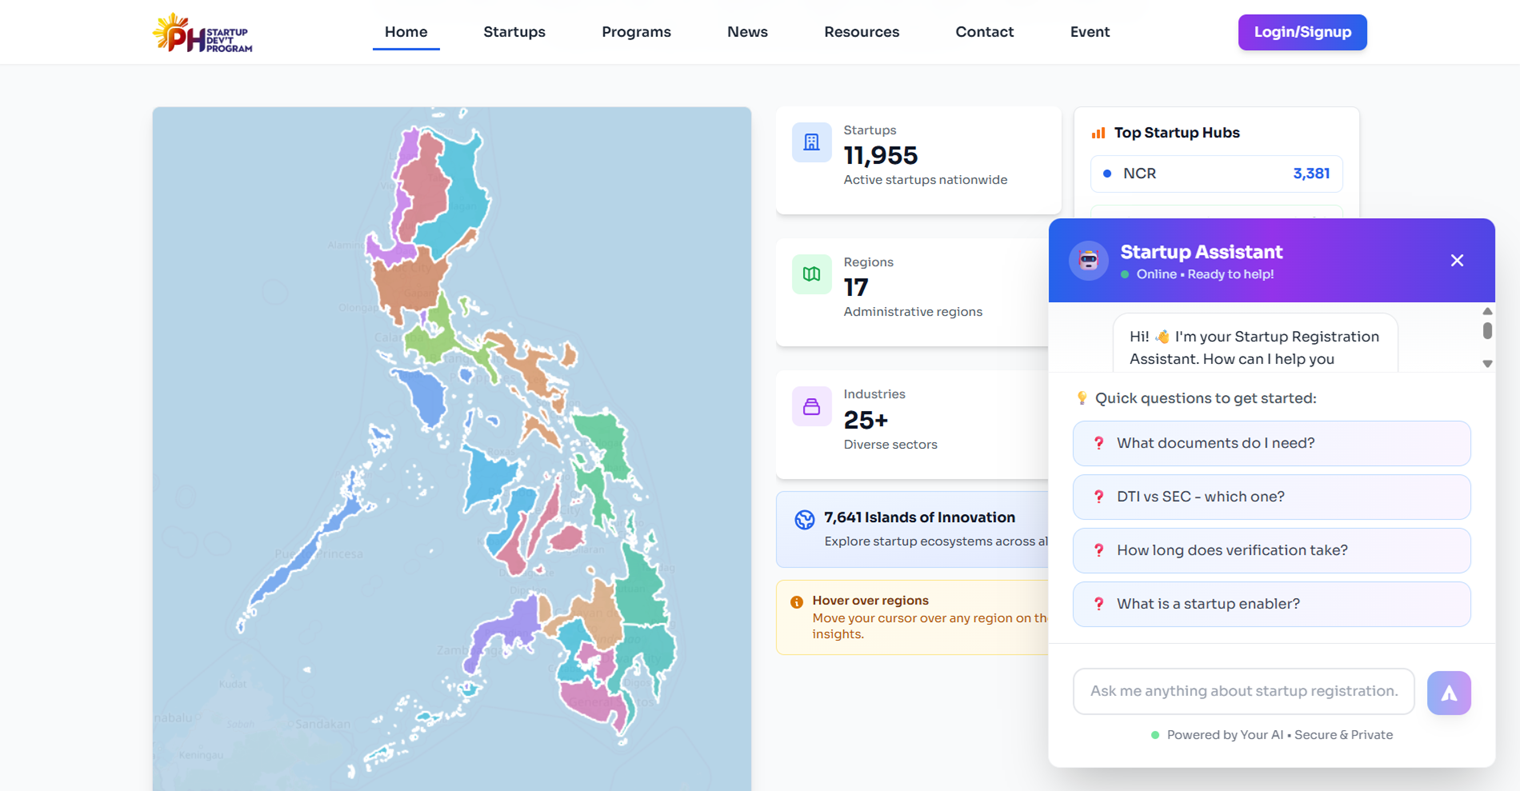
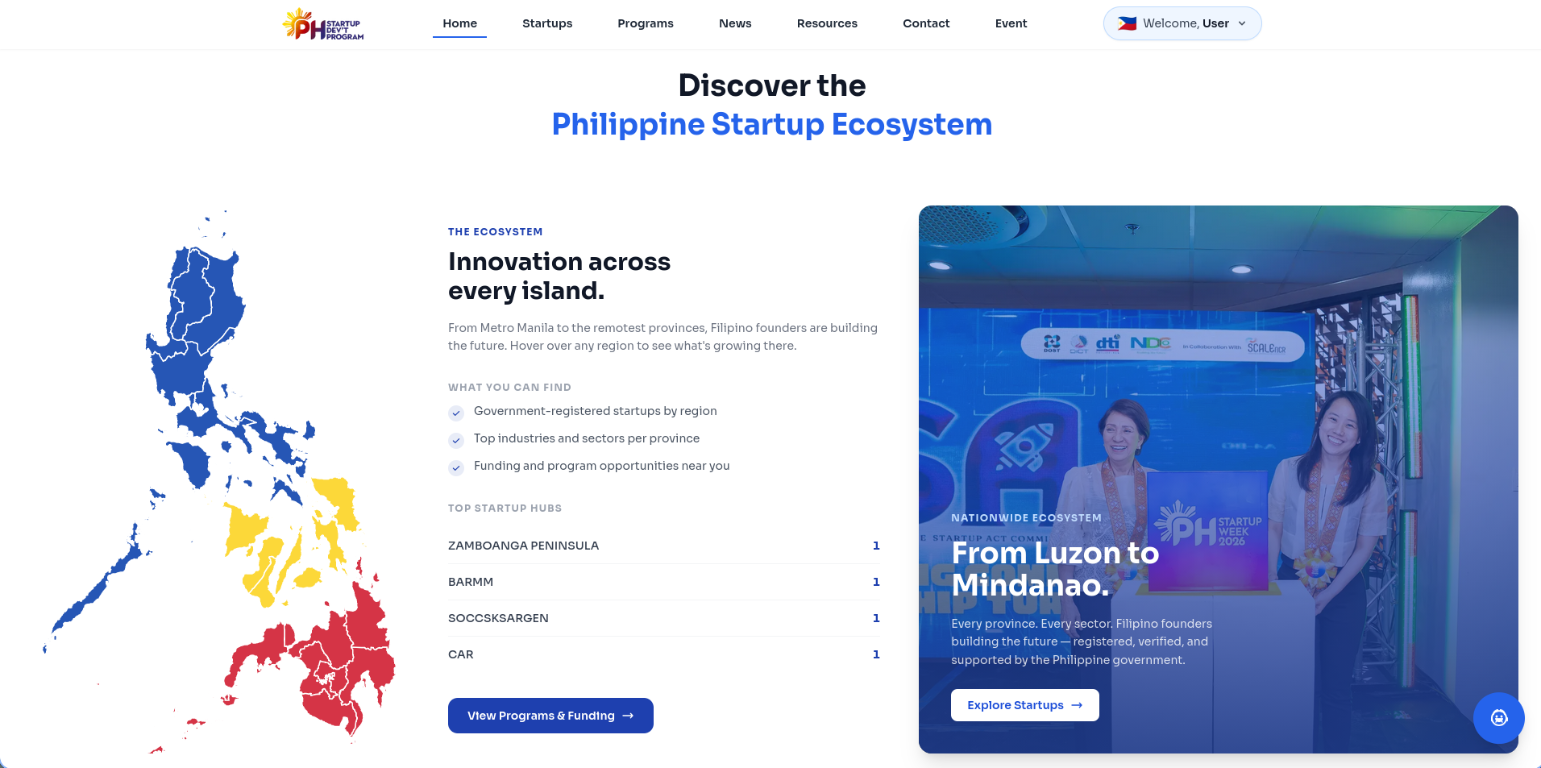
Update portfolio: add PEMEDES project, update skills, EmailJS contact form, new cover photos, updated resume PDF
- Added PEMEDES Licensing Portal project card (government project)
- Added PhilHealth and Startup PH cover photo updates
- Added TypeScript, Next.js, Tailwind CSS, SCSS, Laravel, Ruby on Rails to skills
- Added Google Cloud, Supabase, Resend, GitLab, Jira, Figma, Vercel, Cloudflare, MariaDB, RESTful API
- Replaced FormSubmit with EmailJS contact form
- Updated resume PDF with new tech stack and bullet points
- Updated email to [email redacted]
- Updated phone number and fixed date format
- Card banner click navigates to project link

diff --git a/index.html b/index.html
@@ -72,7 +72,7 @@
       "https://x.com/mattxslv",
       "https://www.instagram.com/mattxslv/"
     ],
-    "email": "[email redacted]",
+    "email": "[email redacted]",
     "telephone": "+639760901308",
     "address": {
       "@type": "PostalAddress",
@@ -173,10 +173,10 @@
 
             <div class="btn-wrapper">
 
-              <a href="mailto:[email redacted]" class="chip">
+              <a href="mailto:[email redacted]" class="chip">
                 <span class="material-symbols-outlined" aria-hidden="true"> mail </span>
 
-                <span class="label-large">[email redacted]</span>
+                <span class="label-large">[email redacted]</span>
 
                 <div class="state-layer"></div>
               </a>
@@ -285,6 +285,25 @@
 <div class="project-list">
 
     <!-- Professional Projects -->
+    <div class="card">
+    <figure class="card-banner img-holder" style="--width: 334; --height: 180;">
+      <img src="./assets/images/pemedes-licensing-portal.png" alt="PEMEDES Licensing Portal" width="334" height="180" class="img-cover">
+    </figure>
+    <div class="card-content">
+      <span class="label-large card-subtitle">Government Project</span>
+      <h3 class="title-large card-title">PEMEDES Licensing Portal</h3>
+      <p class="body-medium card-text">Licensing and compliance portal for Private Express and Messengerial Delivery Service operators and riders, supporting online registration, verification, document workflows, and role-based application review.</p>
+      <div class="tech-stack" style="margin: 0.5rem 0; display: flex; flex-wrap: wrap; gap: 0.25rem;">
+        <span class="tech-badge" style="background: var(--surface-container); padding: 0.2rem 0.5rem; border-radius: 12px; font-size: 0.75rem;">Next.js</span>
+        <span class="tech-badge" style="background: var(--surface-container); padding: 0.2rem 0.5rem; border-radius: 12px; font-size: 0.75rem;">Cloud SQL</span>
+        <span class="tech-badge" style="background: var(--surface-container); padding: 0.2rem 0.5rem; border-radius: 12px; font-size: 0.75rem;">Government Licensing</span>
+      </div>
+      <div class="btn-wrapper" style="display: flex; gap: 0.5rem; flex-wrap: wrap;">
+        <a href="https://register.pemedes.gov.ph/" class="btn" target="_blank" rel="noopener noreferrer" style="width: 100%; text-align: center;">Visit Live Site</a>
+      </div>
+    </div>
+  </div>
+
     <div class="card">
     <figure class="card-banner img-holder" style="--width: 334; --height: 180;">
       <img src="./assets/images/philhealth desktop.png" alt="PhilHealth Transparency Portal" width="334" height="180" class="img-cover">
@@ -549,7 +568,7 @@
       <li class="resume-item">
         <div class="resume-card">
           <p class="body-large">Department of Information and Communications Technology of the Philippines</p>
-          <span class="label-medium card-subtitle">Oct. 14 2025 - Present</span>
+          <span class="label-medium card-subtitle">Oct. 2025 - Present</span>
           <span class="body-medium card-text">Computer Programmer I</span>
         </div>
       </li>
@@ -642,27 +661,51 @@
             <ul class="resume-bottom-list">
 
               <li class="resume-bottom-item">
-                <img src="./assets/images/html5.svg" width="28" height="28" loading="eager" alt="HTML5" class="icon" style="display: inline-block;" onload="console.log('HTML5 icon loaded')" onerror="console.log('HTML5 failed, using fallback'); this.style.display='none'; this.nextElementSibling.style.display='inline-block';">
+                <img src="./assets/images/html5.svg" width="28" height="28" loading="eager" alt="HTML5" class="icon" style="display: inline-block;"onerror="this.style.display='none'; this.nextElementSibling.style.display='inline-block';">
                 <span class="icon" style="font-size: 28px; display: none;">🌐</span>
                 <span class="label-medium">HTML5</span>
               </li>
 
               <li class="resume-bottom-item">
-                <img src="./assets/images/css3.svg" width="28" height="28" loading="eager" alt="CSS3" class="icon" style="display: inline-block;" onload="console.log('CSS3 icon loaded')" onerror="console.log('CSS3 failed, using fallback'); this.style.display='none'; this.nextElementSibling.style.display='inline-block';">
+                <img src="./assets/images/css3.svg" width="28" height="28" loading="eager" alt="CSS3" class="icon" style="display: inline-block;"onerror="this.style.display='none'; this.nextElementSibling.style.display='inline-block';">
                 <span class="icon" style="font-size: 28px; display: none;">🎨</span>
                 <span class="label-medium">CSS3</span>
               </li>
 
               <li class="resume-bottom-item">
-                <img src="./assets/images/javascript.svg" width="28" height="28" loading="eager" alt="JavaScript" class="icon" style="display: inline-block;" onload="console.log('JS icon loaded')" onerror="console.log('JS failed, using fallback'); this.style.display='none'; this.nextElementSibling.style.display='inline-block';">
+                <img src="./assets/images/javascript.svg" width="28" height="28" loading="eager" alt="JavaScript" class="icon" style="display: inline-block;"onerror="this.style.display='none'; this.nextElementSibling.style.display='inline-block';">
                 <span class="icon" style="font-size: 28px; display: none;">⚡</span>
                 <span class="label-medium">JavaScript</span>
               </li>
 
               <li class="resume-bottom-item">
-                <img src="./assets/images/react.js.svg" width="28" height="28" loading="eager" alt="React.js" class="icon" style="display: inline-block;" onload="console.log('React icon loaded')" onerror="console.log('React failed, using fallback'); this.style.display='none'; this.nextElementSibling.style.display='inline-block';">
+                <img src="./assets/images/react.js.svg" width="28" height="28" loading="eager" alt="React.js" class="icon" style="display: inline-block;" onerror="this.style.display='none'; this.nextElementSibling.style.display='inline-block';">
                 <span class="icon" style="font-size: 28px; display: none;">⚛️</span>
                 <span class="label-medium">React.js</span>
+              </li>
+
+              <li class="resume-bottom-item">
+                <img src="./assets/images/typescript.svg" width="28" height="28" loading="eager" alt="TypeScript" class="icon" style="display: inline-block;" onerror="this.style.display='none'; this.nextElementSibling.style.display='inline-block';">
+                <span class="icon" style="font-size: 28px; display: none;">🔷</span>
+                <span class="label-medium">TypeScript</span>
+              </li>
+
+              <li class="resume-bottom-item">
+                <img src="./assets/images/nextjs.svg" width="28" height="28" loading="eager" alt="Next.js" class="icon" style="display: inline-block;" onerror="this.style.display='none'; this.nextElementSibling.style.display='inline-block';">
+                <span class="icon" style="font-size: 28px; display: none;">▲</span>
+                <span class="label-medium">Next.js</span>
+              </li>
+
+              <li class="resume-bottom-item">
+                <img src="./assets/images/tailwindcss.svg" width="28" height="28" loading="eager" alt="Tailwind CSS" class="icon" style="display: inline-block;" onerror="this.style.display='none'; this.nextElementSibling.style.display='inline-block';">
+                <span class="icon" style="font-size: 28px; display: none;">🌊</span>
+                <span class="label-medium">Tailwind CSS</span>
+              </li>
+
+              <li class="resume-bottom-item">
+                <img src="./assets/images/scss.svg" width="28" height="28" loading="eager" alt="SCSS" class="icon" style="display: inline-block;" onerror="this.style.display='none'; this.nextElementSibling.style.display='inline-block';">
+                <span class="icon" style="font-size: 28px; display: none;">🎨</span>
+                <span class="label-medium">SCSS</span>
               </li>
 
             </ul>
@@ -672,27 +715,39 @@
             <ul class="resume-bottom-list">
 
               <li class="resume-bottom-item">
-                <img src="./assets/images/node.js.svg" width="28" height="28" loading="eager" alt="NodeJS" class="icon" style="display: inline-block;" onload="console.log('NodeJS icon loaded')" onerror="console.log('NodeJS failed, using fallback'); this.style.display='none'; this.nextElementSibling.style.display='inline-block';">
+                <img src="./assets/images/node.js.svg" width="28" height="28" loading="eager" alt="NodeJS" class="icon" style="display: inline-block;" onerror="this.style.display='none'; this.nextElementSibling.style.display='inline-block';">
                 <span class="icon" style="font-size: 28px; display: none;">🟢</span>
                 <span class="label-medium">Node.js</span>
               </li>
 
               <li class="resume-bottom-item">
-                <img src="./assets/images/java.svg" width="28" height="28" loading="eager" alt="Java" class="icon" style="display: inline-block;" onload="console.log('Java icon loaded')" onerror="console.log('Java failed, using fallback'); this.style.display='none'; this.nextElementSibling.style.display='inline-block';">
+                <img src="./assets/images/java.svg" width="28" height="28" loading="eager" alt="Java" class="icon" style="display: inline-block;" onerror="this.style.display='none'; this.nextElementSibling.style.display='inline-block';">
                 <span class="icon" style="font-size: 28px; display: none;">☕</span>
                 <span class="label-medium">Java</span>
               </li>
 
               <li class="resume-bottom-item">
-                <img src="./assets/images/php.svg" width="28" height="28" loading="eager" alt="PHP" class="icon" style="display: inline-block;" onload="console.log('PHP icon loaded')" onerror="console.log('PHP failed, using fallback'); this.style.display='none'; this.nextElementSibling.style.display='inline-block';">
+                <img src="./assets/images/php.svg" width="28" height="28" loading="eager" alt="PHP" class="icon" style="display: inline-block;" onerror="this.style.display='none'; this.nextElementSibling.style.display='inline-block';">
                 <span class="icon" style="font-size: 28px; display: none;">🐘</span>
                 <span class="label-medium">PHP</span>
               </li>
 
               <li class="resume-bottom-item">
-                <img src="./assets/images/python.svg" width="28" height="28" loading="eager" alt="Python" class="icon" style="display: inline-block;" onload="console.log('Python icon loaded')" onerror="console.log('Python failed, using fallback'); this.style.display='none'; this.nextElementSibling.style.display='inline-block';">
+                <img src="./assets/images/laravel.svg" width="28" height="28" loading="eager" alt="Laravel" class="icon" style="display: inline-block;" onerror="this.style.display='none'; this.nextElementSibling.style.display='inline-block';">
+                <span class="icon" style="font-size: 28px; display: none;">🔴</span>
+                <span class="label-medium">Laravel</span>
+              </li>
+
+              <li class="resume-bottom-item">
+                <img src="./assets/images/python.svg" width="28" height="28" loading="eager" alt="Python" class="icon" style="display: inline-block;" onerror="this.style.display='none'; this.nextElementSibling.style.display='inline-block';">
                 <span class="icon" style="font-size: 28px; display: none;">🐍</span>
                 <span class="label-medium">Python</span>
+              </li>
+
+              <li class="resume-bottom-item">
+                <img src="./assets/images/ruby.svg" width="28" height="28" loading="eager" alt="Ruby on Rails" class="icon" style="display: inline-block;" onerror="this.style.display='none'; this.nextElementSibling.style.display='inline-block';">
+                <span class="icon" style="font-size: 28px; display: none;">💎</span>
+                <span class="label-medium">Ruby on Rails</span>
               </li>
 
             </ul>
@@ -702,27 +757,21 @@
             <ul class="resume-bottom-list">
 
               <li class="resume-bottom-item">
-                <img src="./assets/images/postgresql.svg" width="28" height="28" loading="eager" alt="PostgreSQL" class="icon" style="display: inline-block;" onload="console.log('PostgreSQL icon loaded')" onerror="console.log('PostgreSQL failed, using fallback'); this.style.display='none'; this.nextElementSibling.style.display='inline-block';">
+                <img src="./assets/images/postgresql.svg" width="28" height="28" loading="eager" alt="PostgreSQL" class="icon" style="display: inline-block;" onerror="this.style.display='none'; this.nextElementSibling.style.display='inline-block';">
                 <span class="icon" style="font-size: 28px; display: none;">🐘</span>
                 <span class="label-medium">PostgreSQL</span>
               </li>
 
               <li class="resume-bottom-item">
-                <img src="./assets/images/mysql.svg" width="28" height="28" loading="eager" alt="MySQL" class="icon" style="display: inline-block;" onload="console.log('MySQL icon loaded')" onerror="console.log('MySQL failed, using fallback'); this.style.display='none'; this.nextElementSibling.style.display='inline-block';">
+                <img src="./assets/images/mysql.svg" width="28" height="28" loading="eager" alt="MySQL" class="icon" style="display: inline-block;" onerror="this.style.display='none'; this.nextElementSibling.style.display='inline-block';">
                 <span class="icon" style="font-size: 28px; display: none;">🐬</span>
                 <span class="label-medium">MySQL</span>
               </li>
 
               <li class="resume-bottom-item">
-                <img src="./assets/images/github.svg" width="28" height="28" loading="eager" alt="GitHub" class="icon" style="display: inline-block;" onload="console.log('GitHub icon loaded')" onerror="console.log('GitHub failed, using fallback'); this.style.display='none'; this.nextElementSibling.style.display='inline-block';">
-                <span class="icon" style="font-size: 28px; display: none;">🐙</span>
-                <span class="label-medium">Github</span>
-              </li>
-
-              <li class="resume-bottom-item">
-                <img src="./assets/images/VS_code.svg" width="28" height="28" loading="eager" alt="VS Code" class="icon" style="display: inline-block;" onload="console.log('VS Code icon loaded')" onerror="console.log('VS Code failed, using fallback'); this.style.display='none'; this.nextElementSibling.style.display='inline-block';">
-                <span class="icon" style="font-size: 28px; display: none;">💻</span>
-                <span class="label-medium">VS Code</span>
+                <img src="./assets/images/mariadb.svg" width="28" height="28" loading="eager" alt="MariaDB" class="icon" style="display: inline-block;" onerror="this.style.display='none'; this.nextElementSibling.style.display='inline-block';">
+                <span class="icon" style="font-size: 28px; display: none;">🗄️</span>
+                <span class="label-medium">MariaDB</span>
               </li>
 
             </ul>
@@ -732,27 +781,74 @@
             <ul class="resume-bottom-list">
 
               <li class="resume-bottom-item">
-                <img src="./assets/images/docker.svg" width="28" height="28" loading="eager" alt="Docker" class="icon" style="display: inline-block;" onload="console.log('Docker icon loaded')" onerror="console.log('Docker failed, using fallback'); this.style.display='none'; this.nextElementSibling.style.display='inline-block';">
+                <img src="./assets/images/docker.svg" width="28" height="28" loading="eager" alt="Docker" class="icon" style="display: inline-block;" onerror="this.style.display='none'; this.nextElementSibling.style.display='inline-block';">
                 <span class="icon" style="font-size: 28px; display: none;">🐳</span>
                 <span class="label-medium">Docker</span>
               </li>
 
               <li class="resume-bottom-item">
-                <img src="./assets/images/postman.svg" width="28" height="28" loading="eager" alt="Postman" class="icon" style="display: inline-block;" onload="console.log('Postman icon loaded')" onerror="console.log('Postman failed, using fallback'); this.style.display='none'; this.nextElementSibling.style.display='inline-block';">
-                <span class="icon" style="font-size: 28px; display: none;">📮</span>
-                <span class="label-medium">Postman</span>
-              </li>
-
-              <li class="resume-bottom-item">
-                <img src="./assets/images/aws.svg" width="28" height="28" loading="eager" alt="AWS" class="icon" style="display: inline-block;" onload="console.log('AWS icon loaded')" onerror="console.log('AWS failed, using fallback'); this.style.display='none'; this.nextElementSibling.style.display='inline-block';">
+                <img src="./assets/images/googlecloud.svg" width="28" height="28" loading="eager" alt="Google Cloud" class="icon" style="display: inline-block;" onerror="this.style.display='none'; this.nextElementSibling.style.display='inline-block';">
                 <span class="icon" style="font-size: 28px; display: none;">☁️</span>
-                <span class="label-medium">AWS</span>
+                <span class="label-medium">Google Cloud</span>
               </li>
 
               <li class="resume-bottom-item">
-                <img src="./assets/images/ruby.svg" width="28" height="28" loading="eager" alt="Ruby" class="icon" style="display: inline-block;" onload="console.log('Ruby icon loaded')" onerror="console.log('Ruby failed, using fallback'); this.style.display='none'; this.nextElementSibling.style.display='inline-block';">
-                <span class="icon" style="font-size: 28px; display: none;">💎</span>
-                <span class="label-medium">Ruby</span>
+                <img src="./assets/images/github.svg" width="28" height="28" loading="eager" alt="GitHub" class="icon" style="display: inline-block;" onerror="this.style.display='none'; this.nextElementSibling.style.display='inline-block';">
+                <span class="icon" style="font-size: 28px; display: none;">🐙</span>
+                <span class="label-medium">Github</span>
+              </li>
+
+              <li class="resume-bottom-item">
+                <img src="./assets/images/VS_code.svg" width="28" height="28" loading="eager" alt="VS Code" class="icon" style="display: inline-block;" onerror="this.style.display='none'; this.nextElementSibling.style.display='inline-block';">
+                <span class="icon" style="font-size: 28px; display: none;">💻</span>
+                <span class="label-medium">VS Code</span>
+              </li>
+
+              <li class="resume-bottom-item">
+                <img src="./assets/images/resend.svg" width="28" height="28" loading="eager" alt="Resend" class="icon" style="display: inline-block; filter: invert(var(--icon-invert, 0));" onerror="this.style.display='none'; this.nextElementSibling.style.display='inline-block';">
+                <span class="icon" style="font-size: 28px; display: none;">✉️</span>
+                <span class="label-medium">Resend</span>
+              </li>
+
+              <li class="resume-bottom-item">
+                <img src="./assets/images/supabase.svg" width="28" height="28" loading="eager" alt="Supabase" class="icon" style="display: inline-block;" onerror="this.style.display='none'; this.nextElementSibling.style.display='inline-block';">
+                <span class="icon" style="font-size: 28px; display: none;">⚡</span>
+                <span class="label-medium">Supabase</span>
+              </li>
+
+              <li class="resume-bottom-item">
+                <img src="./assets/images/gitlab.svg" width="28" height="28" loading="eager" alt="GitLab" class="icon" style="display: inline-block;" onerror="this.style.display='none'; this.nextElementSibling.style.display='inline-block';">
+                <span class="icon" style="font-size: 28px; display: none;">🦊</span>
+                <span class="label-medium">GitLab</span>
+              </li>
+
+              <li class="resume-bottom-item">
+                <img src="./assets/images/jira.svg" width="28" height="28" loading="eager" alt="Jira" class="icon" style="display: inline-block;" onerror="this.style.display='none'; this.nextElementSibling.style.display='inline-block';">
+                <span class="icon" style="font-size: 28px; display: none;">🔵</span>
+                <span class="label-medium">Jira</span>
+              </li>
+
+              <li class="resume-bottom-item">
+                <span class="icon" style="font-size: 28px;">🔗</span>
+                <span class="label-medium">RESTful API</span>
+              </li>
+
+              <li class="resume-bottom-item">
+                <img src="./assets/images/figma.svg" width="28" height="28" loading="eager" alt="Figma" class="icon" style="display: inline-block;" onerror="this.style.display='none'; this.nextElementSibling.style.display='inline-block';">
+                <span class="icon" style="font-size: 28px; display: none;">🎨</span>
+                <span class="label-medium">Figma</span>
+              </li>
+
+              <li class="resume-bottom-item">
+                <img src="./assets/images/vercel.svg" width="28" height="28" loading="eager" alt="Vercel" class="icon" style="display: inline-block; filter: invert(var(--icon-invert, 0));" onerror="this.style.display='none'; this.nextElementSibling.style.display='inline-block';">
+                <span class="icon" style="font-size: 28px; display: none;">▲</span>
+                <span class="label-medium">Vercel</span>
+              </li>
+
+              <li class="resume-bottom-item">
+                <img src="./assets/images/cloudflare.svg" width="28" height="28" loading="eager" alt="Cloudflare" class="icon" style="display: inline-block;" onerror="this.style.display='none'; this.nextElementSibling.style.display='inline-block';">
+                <span class="icon" style="font-size: 28px; display: none;">🌐</span>
+                <span class="label-medium">Cloudflare</span>
               </li>
 
             </ul>
@@ -787,9 +883,9 @@
 
                       <p class="label-small info-title">Mail Me</p>
 
-                      <a href="mailto:[email redacted]" class="label-small info-text">[email redacted]</a>
+                      <a href="mailto:[email redacted]" class="label-small info-text">[email redacted]</a>
 
-                      <a href="mailto:[email redacted]" class="label-small info-text">[email redacted]</a>
+                      <a href="mailto:[email redacted]" class="label-small info-text">[email redacted]</a>
 
                     </div>
 
@@ -807,7 +903,7 @@
 
                       <a href="tel:+63 976 090 1308" class="label-small info-text">+63 976 090 1308</a>
 
-                      <a href="tel:+63 906 152 1189" class="label-small info-text">+63 906 152 1189</a>
+                      <a href="tel:+63 947 175 3654" class="label-small info-text">+63 947 175 3654</a>
 
                     </div>
 
@@ -901,22 +997,18 @@
 
                 <h3 class="title-large">Let’s Work Together.</h3>
 
-                <form action="https://formsubmit.co/[email redacted]" method="POST" class="input-wrapper" id="contact-form">
+                <form class="input-wrapper" id="contact-form">
 
-                  <input type="hidden" name="_captcha" value="false">
-                  <input type="hidden" name="_next" value="https://mattxslv.github.io/DevFolio/thank-you.html">
-                  <input type="hidden" name="_subject" value="New Portfolio Contact Form Submission">
+                  <input type="text" name="name" id="name" placeholder="Name" required class="input-field" minlength="2" maxlength="50">
 
-                  <input type="text" name="name" placeholder="Name" required class="input-field" minlength="2" maxlength="50">
+                  <input type="email" name="email" id="email" placeholder="Email" required class="input-field">
 
-                  <input type="email" name="email" placeholder="Email" required class="input-field">
+                  <input type="text" name="subject" id="subject" placeholder="Subject" class="input-field" maxlength="100">
 
-                  <input type="text" name="subject" placeholder="Subject" class="input-field" maxlength="100">
-
-                  <textarea name="message" placeholder="Message" required class="textarea" minlength="10" maxlength="500"></textarea>
+                  <textarea name="message" id="message" placeholder="Message" required class="textarea" minlength="10" maxlength="500"></textarea>
 
                   <button class="btn" type="submit" id="submit-btn">
-                    <span class="label-large">Send Message</span>
+                    <span class="label-large" id="submit-text">Send Message</span>
 
                     <div class="state-layer"></div>
                   </button>
@@ -959,6 +1051,39 @@
     - custom js link
   -->
   <script src="./js/script.js"></script>
+
+  <script src="https://cdn.jsdelivr.net/npm/@emailjs/browser@4/dist/email.min.js"></script>
+  <script>
+    (function () {
+      emailjs.init({ publicKey: "Nnjt52GyGamAaPMYl" });
+    })();
+
+    document.getElementById("contact-form").addEventListener("submit", function (e) {
+      e.preventDefault();
+      const btn = document.getElementById("submit-btn");
+      const text = document.getElementById("submit-text");
+      text.textContent = "Sending...";
+      btn.disabled = true;
+
+      emailjs.send("service_g6gseym", "template_44d7bcl", {
+        name: document.getElementById("name").value,
+        email: document.getElementById("email").value,
+        subject: document.getElementById("subject").value,
+        message: document.getElementById("message").value,
+      }).then(function () {
+        text.textContent = "Message Sent!";
+        document.getElementById("contact-form").reset();
+        setTimeout(() => {
+          text.textContent = "Send Message";
+          btn.disabled = false;
+        }, 3000);
+      }, function (error) {
+        text.textContent = "Failed. Try again.";
+        btn.disabled = false;
+        console.error("EmailJS error:", error);
+      });
+    });
+  </script>
 
 </body>
 

diff --git a/js/script.js b/js/script.js
@@ -229,3 +229,22 @@ $tabBtn.forEach(item => {
 
   });
 });
+
+
+/**
+ * Clickable card banners — "👁 View Project" overlay navigates to the card's primary link
+ */
+
+document.addEventListener('DOMContentLoaded', () => {
+  document.querySelectorAll('.card-banner').forEach(banner => {
+    const card = banner.closest('.card');
+    if (!card) return;
+    const primaryLink = card.querySelector('.btn');
+    if (!primaryLink) return;
+
+    banner.style.cursor = 'pointer';
+    banner.addEventListener('click', () => {
+      window.open(primaryLink.href, '_blank', 'noopener,noreferrer');
+    });
+  });
+});